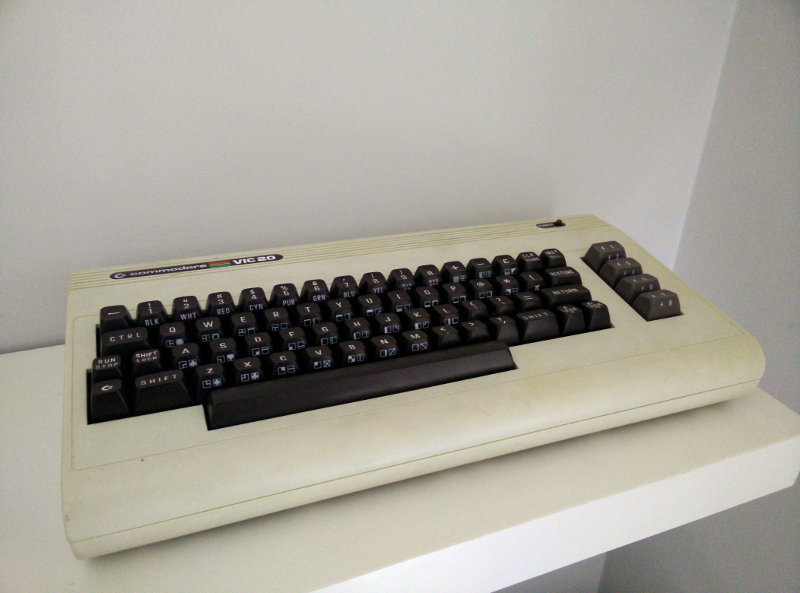
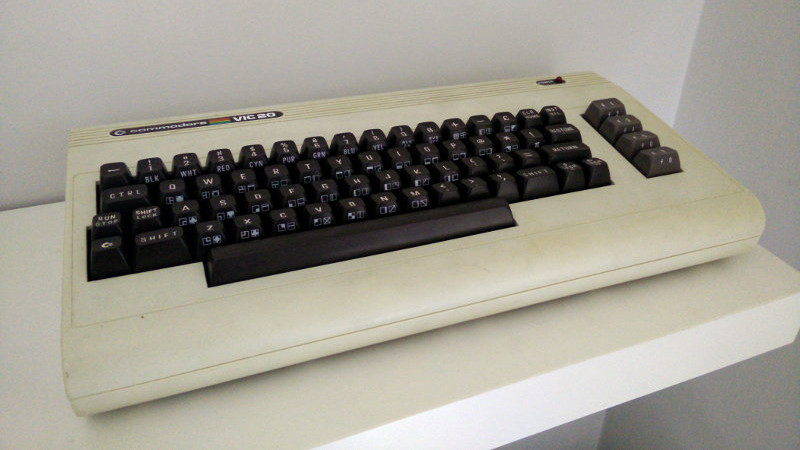
Reduced pic

diff --git a/src/museum.md b/src/museum.md
@@ -1,4 +1,6 @@
 -=Title:Museo
 ### Museo personale
+Galleria di alcuni cimeli informatici che ho conservato/raccolto nel tempo.
 
+<p><center><b>VIC 20 CR (Cost Reduction)</b></center></p>
 [![VIC20](resources/museum/vic20.jpg)](resources/museum/vic20.jpg)
